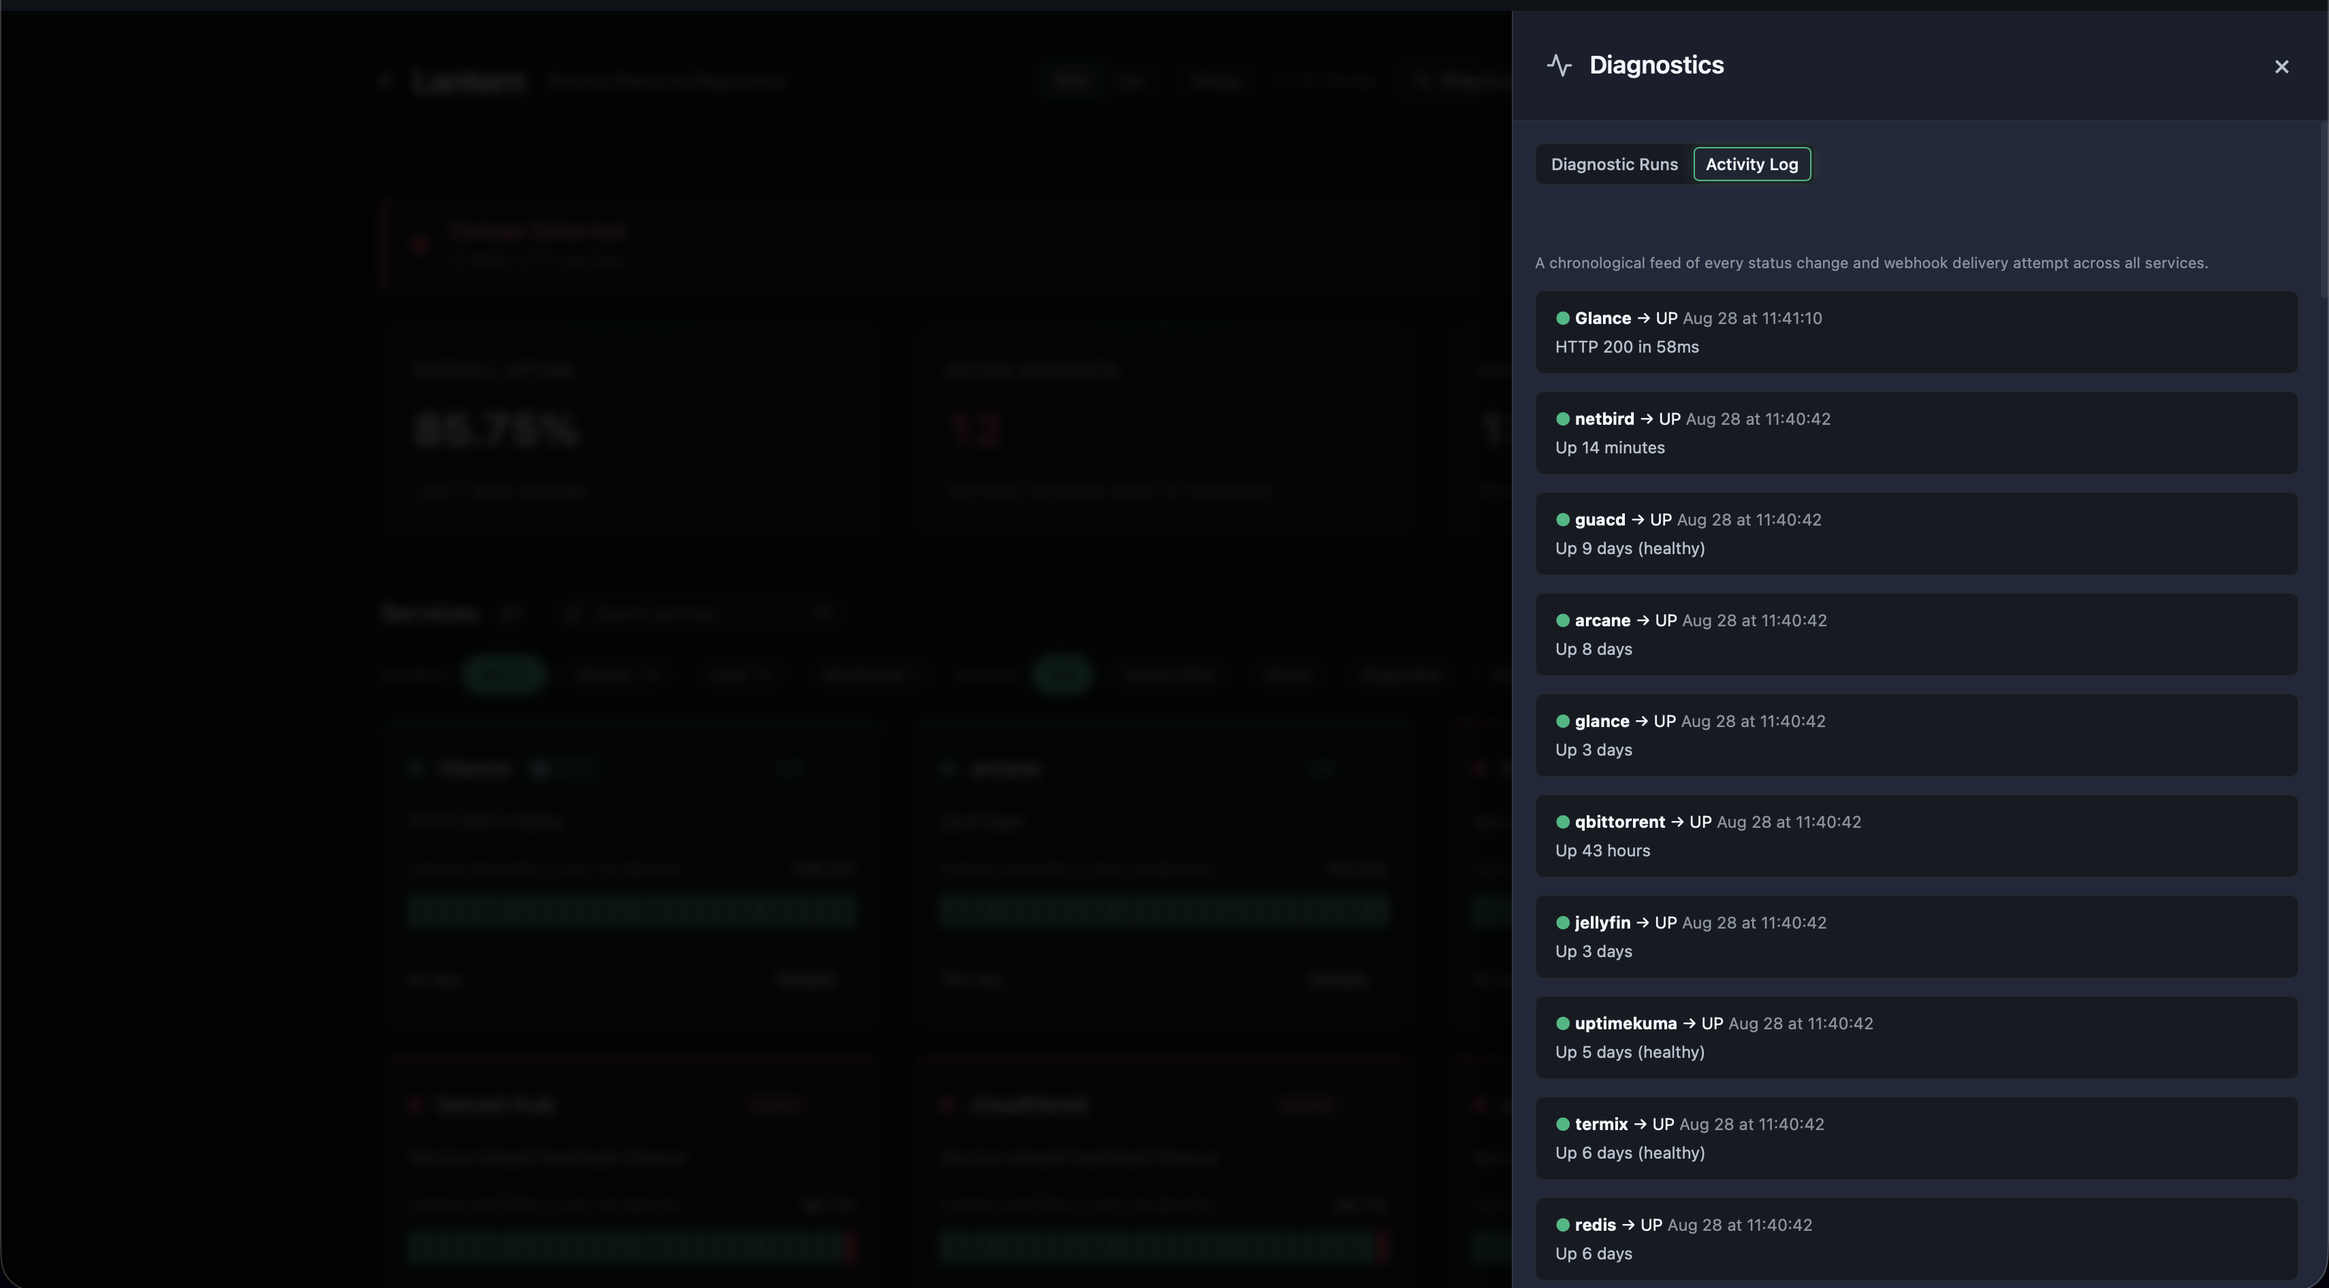
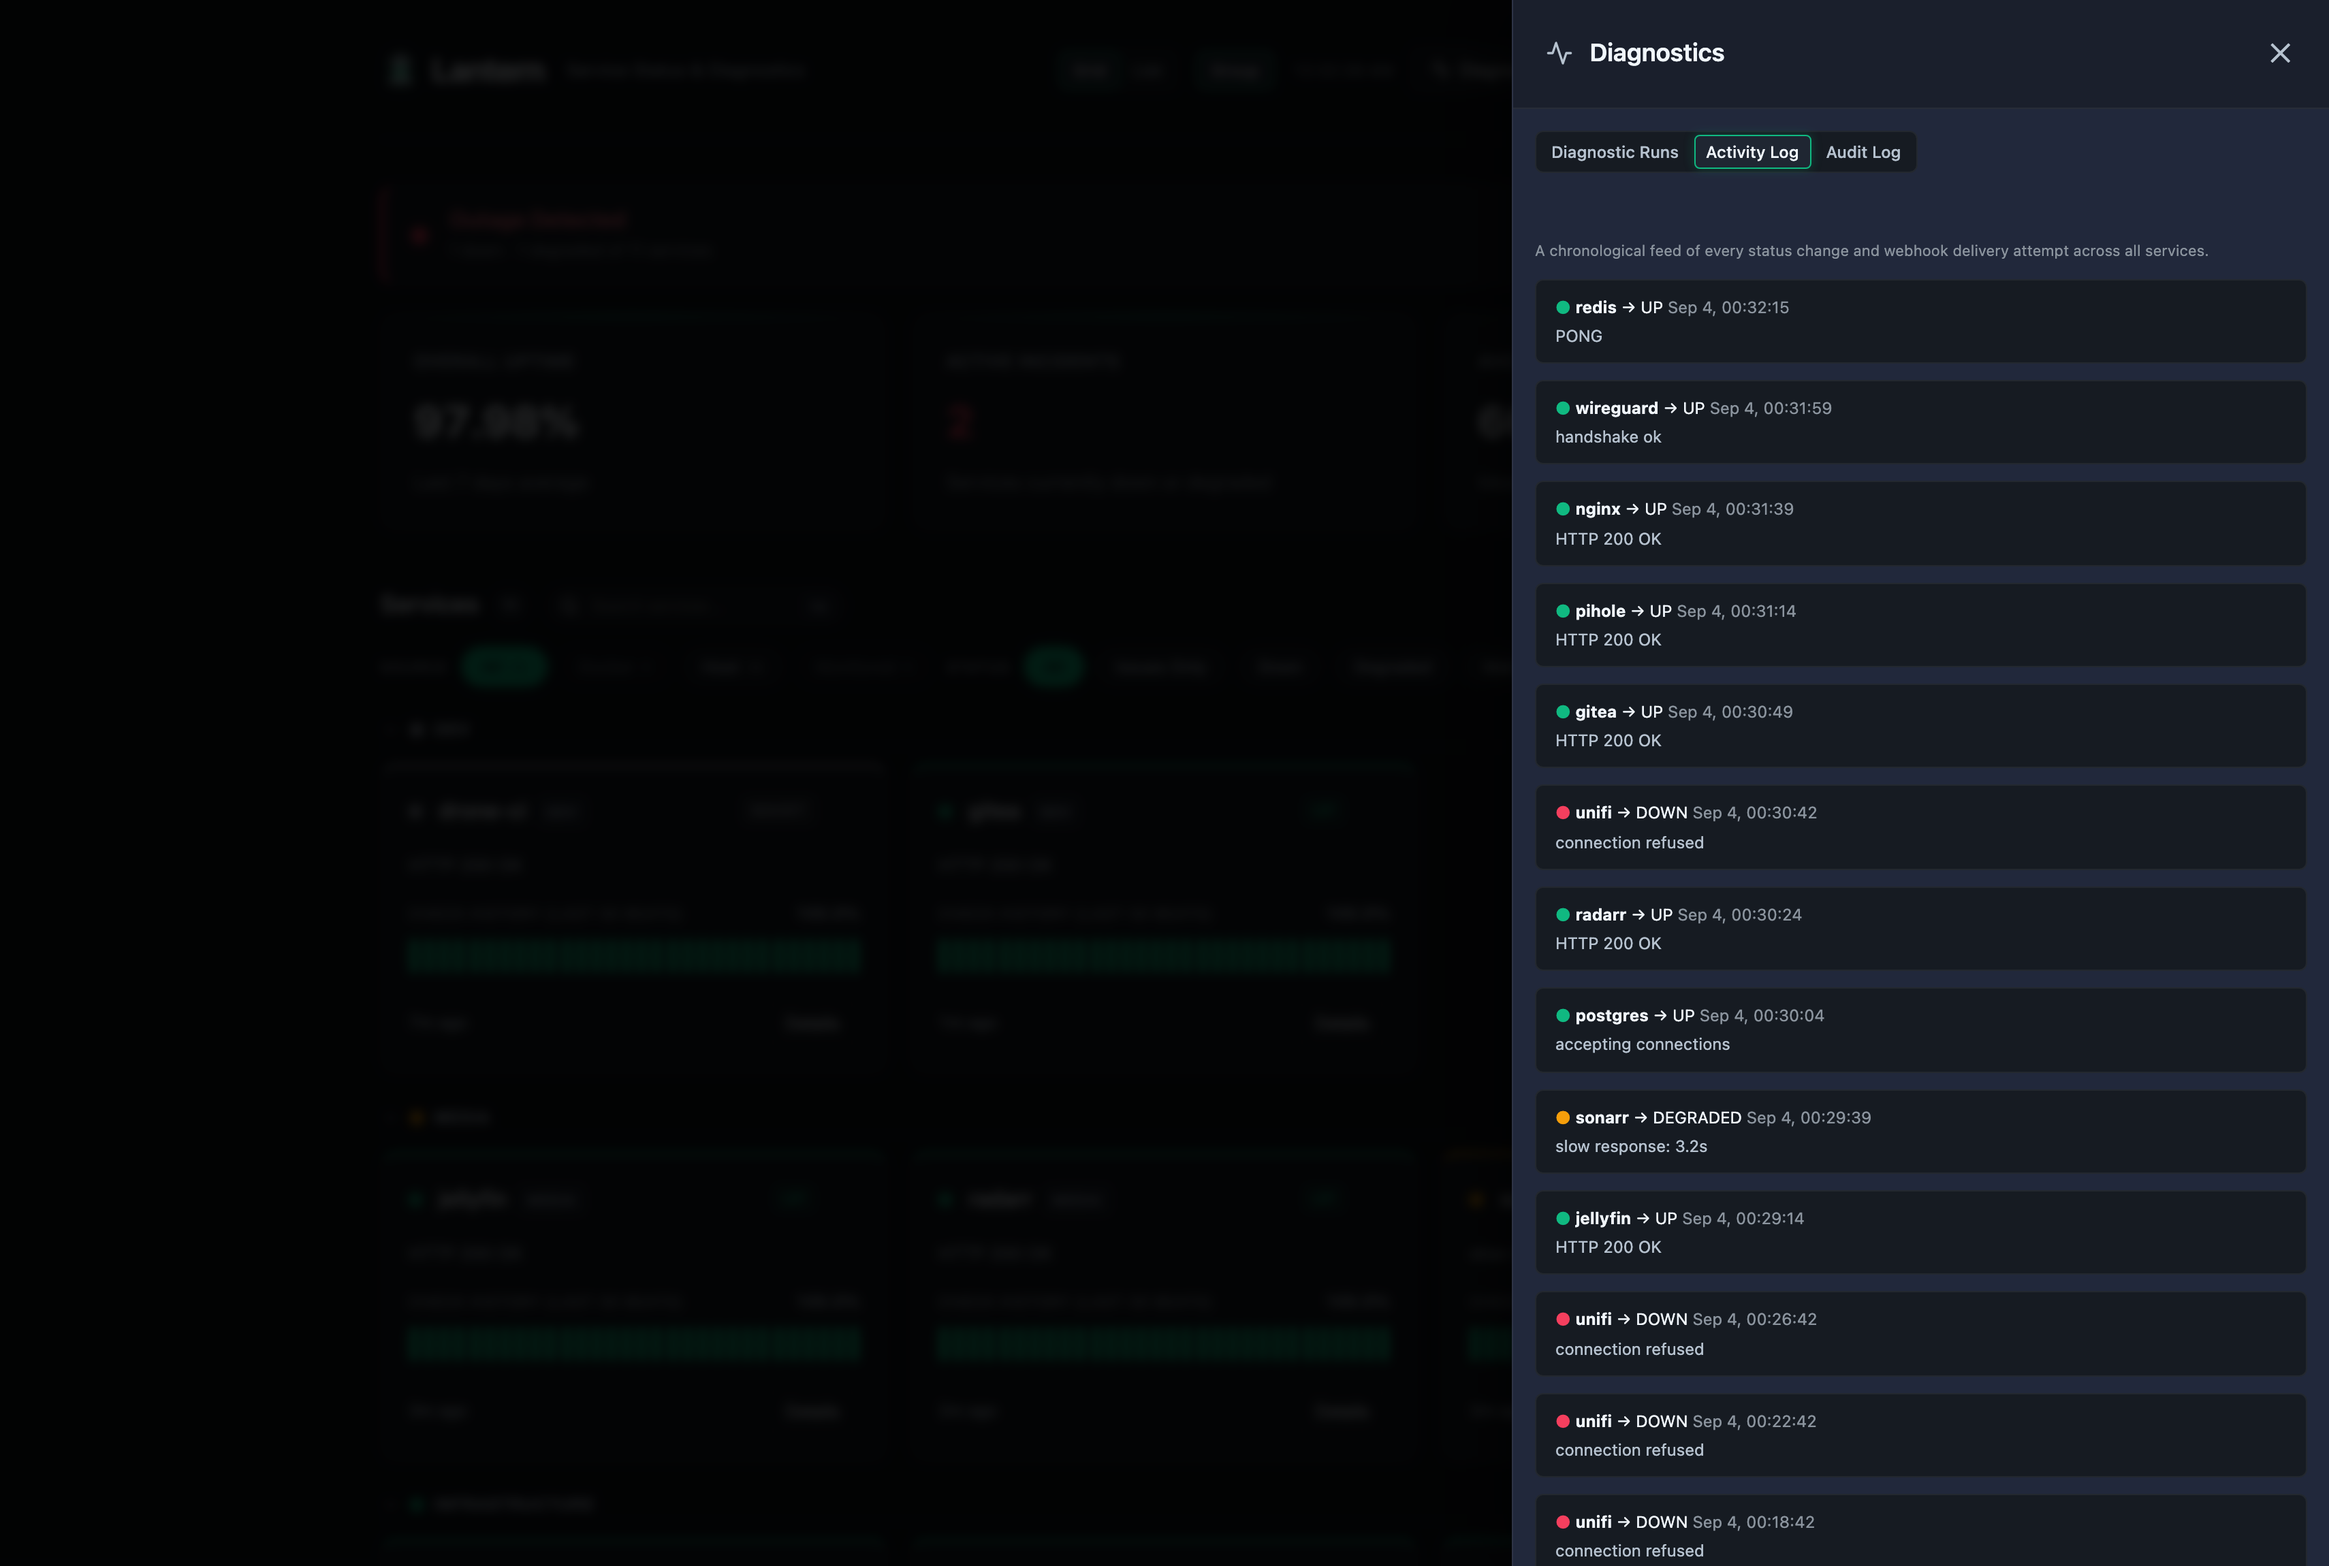
docs: regenerate screenshots, and fix two things they exposed
Captured against the current UI with Playwright over a seeded install --
11 services across four groups, seven days of history with real outage
episodes, three diagnostic runs, and four accounts -- rather than
whatever happened to be on screen. Six shots now: dashboard, service
drawer, activity log, audit log, accounts, sign-in.

container-stats.png is renamed service-detail.png. It never showed
container stats without a Docker daemon attached, and the drawer's real
subject is the service: latency stats, check history, the uptime graph
and recent incidents.

Driving the dashboard in a real browser found two defects that no
existing check could:

- loadData() threw a ReferenceError on every 30-second poll. The v0.67.0
  brand commit removed the `pulse` binding but left a use of it in the
  finally block, so the "last updated" clock in the header stopped
  advancing and the console filled up. Shipped in v0.67.0 and already
  deployed; fixed here.

- .btn had no :disabled styling, though .palette-action, .card-menu-item,
  .toggle and .form-input all do. A button the app had deliberately
  turned off -- the controls on the last owner's row, for instance --
  looked exactly like one that worked. Its :hover and :active are now
  scoped with :not(:disabled) so the dimming is not overridden.

The capture script fails the run on any page error rather than logging
it, so this class of bug cannot slip past a regeneration again. The
[…]

Changed region(s): [[0.6509, 0.0936, 0.9918, 0.9979], [0.9918, 0.9667, 1.0, 1.0], [0.6819, 0.0312, 0.7439, 0.0624]]

diff --git a/static/index.html b/static/index.html
@@ -369,15 +369,19 @@
       transition: background-color 0.2s, border-color 0.2s, color 0.2s,
                   transform 0.2s, box-shadow 0.2s;
     }
-    .btn:hover { background: var(--panel-hover); border-color: var(--border-focus); }
-    .btn:active { transform: scale(0.97); }
+    .btn:hover:not(:disabled) { background: var(--panel-hover); border-color: var(--border-focus); }
+    .btn:active:not(:disabled) { transform: scale(0.97); }
+    /* Every other control in here dims when disabled — .palette-action,
+       .card-menu-item, .toggle, .form-input. .btn did not, so a button the
+       app had deliberately turned off looked exactly like one that worked. */
+    .btn:disabled { opacity: 0.45; cursor: not-allowed; }
     
     .btn.primary {
       background: var(--accent) !important;
       border-color: var(--accent) !important;
       color: var(--on-accent) !important;
     }
-    .btn.primary:hover {
+    .btn.primary:hover:not(:disabled) {
       filter: brightness(1.1);
       box-shadow: 0 0 14px var(--accent-glow) !important;
     }
@@ -2494,8 +2498,9 @@
 
         <div id="auditLogPanel" style="display:none;">
           <div style="font-size:11px; color:var(--text-muted); margin-bottom:12px;">
-            Admin actions: logins, credential changes, service and monitor edits, maintenance toggles,
-            config imports, and Docker restarts.
+            Admin actions: logins (success and failure), account and credential changes, service,
+            group, monitor and alert-route edits, maintenance toggles, branding and quiet-hours
+            changes, webhook channel changes, config imports, and Docker restarts.
           </div>
           <div class="diag-run-list" id="auditLogList">
             <!-- JS -->
@@ -5405,7 +5410,6 @@
         apiHealthy = false;
         updateConnectionBanner();
       } finally {
-        if (pulse) pulse.classList.add('loading');
         const lastUp = document.getElementById('lastUpdated');
         if (lastUp) lastUp.innerText = new Date().toLocaleTimeString();
       }

diff --git a/README.md b/README.md
@@ -88,8 +88,12 @@ It uses a `modernc.org/sqlite` backend (no CGO required, cross-compiles easily) 
 
 <table>
   <tr>
-    <td><img src="docs/screenshots/container-stats.png" alt="Service drawer with container stats and uptime graph" width="400"/></td>
-    <td><img src="docs/screenshots/diagnostics.png" alt="Diagnostics drawer activity log" width="400"/></td>
+    <td><img src="docs/screenshots/service-detail.png" alt="Service drawer: latency stats, check history, 7-day uptime graph and recent incidents" width="400"/></td>
+    <td><img src="docs/screenshots/diagnostics.png" alt="Diagnostics drawer: cross-service activity log" width="400"/></td>
+  </tr>
+  <tr>
+    <td><img src="docs/screenshots/users.png" alt="Settings: accounts with owner, admin and viewer roles" width="400"/></td>
+    <td><img src="docs/screenshots/audit-log.png" alt="Diagnostics drawer: admin action audit log" width="400"/></td>
   </tr>
   <tr>
     <td><img src="docs/screenshots/login.png" alt="Sign-in gate" width="400"/></td>
